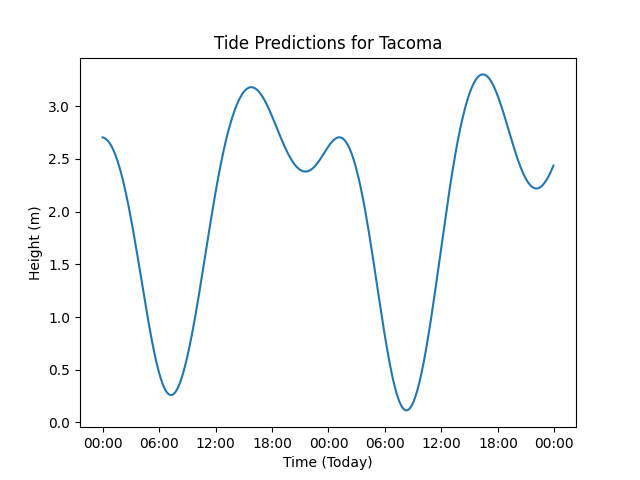
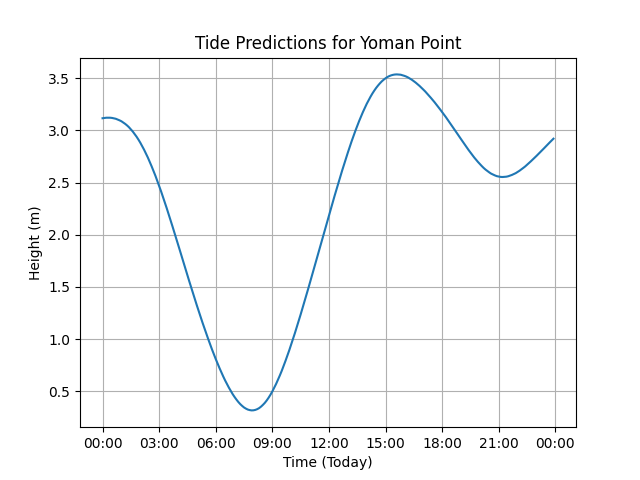
plt settings

diff --git a/datalink.py b/datalink.py
@@ -11,7 +11,8 @@ stations: Dict = {
     'tacoma': '9446484',
     'tacoma narrows': '9446486',
     'gig harbor': '9446369',
-    'yoman point': '9446705'
+    'yoman point': '9446705',
+    'budd inlet': '9446807'
 }
 station = 'yoman point'
 
@@ -20,7 +21,7 @@ time_type = 'lst_ldt'
 data_units = 'metric'
 data_format = 'json'
 begin_date = datetime.now().strftime('%Y%m%d')
-days_ahead = 1
+days_ahead = 0
 end_date = (datetime.today() + timedelta(days=days_ahead)).strftime('%Y%m%d')
 
 datum = 'MLLW'
@@ -54,5 +55,6 @@ ax = plt.gca()
 ax.xaxis.set_major_formatter(mdates.DateFormatter('%H:%M'))
 plt.xlabel('Time (Today)')
 plt.ylabel('Height (m)')
+plt.grid(True)
 plt.title(f'Tide Predictions for {station.title()}')
 plt.show()
